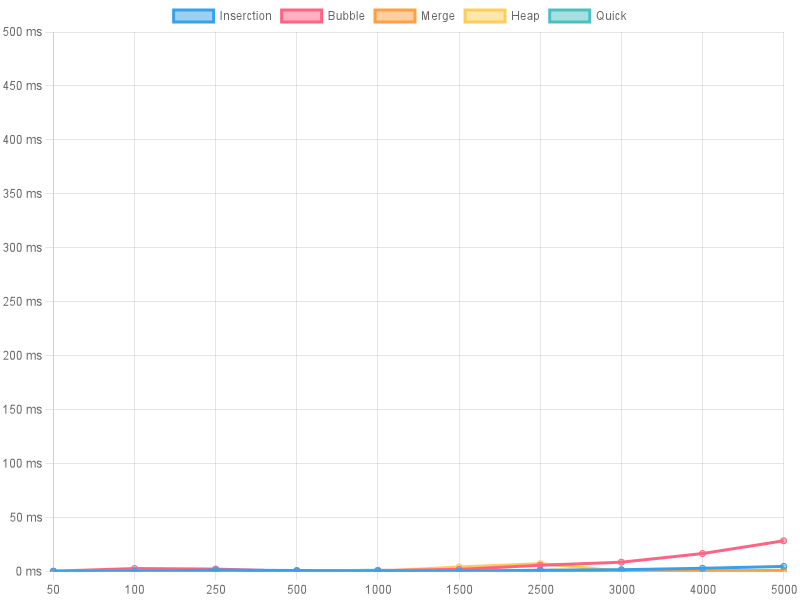
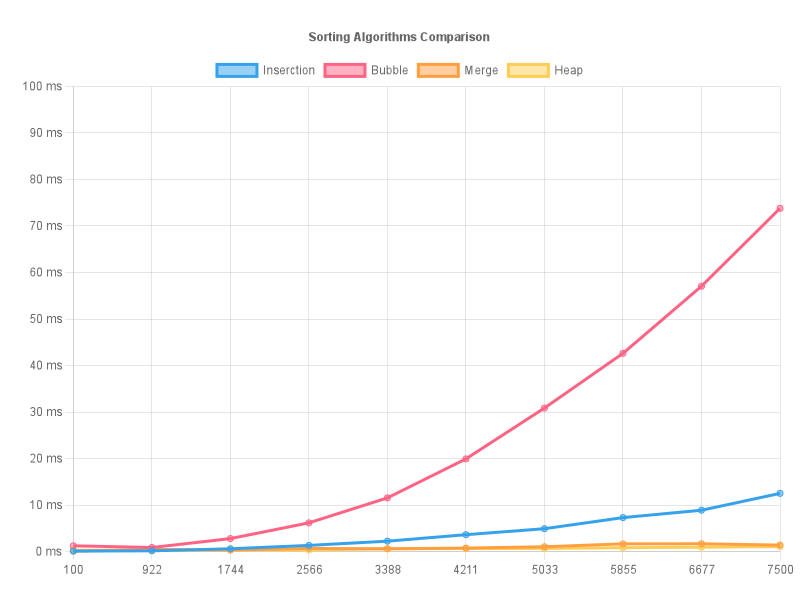
Feat: create config archive to setup simulation environment

diff --git a/core/AlgorithmAnalyzer.js b/core/AlgorithmAnalyzer.js
@@ -1,17 +1,14 @@
 import ArrayGen from "../utils/ArrayGen.js";
 import genGraphic from "../utils/genGraphic.js";
 import ProgressManager from "../utils/ProgressManager.js";
+import genLoadBalance from "../utils/genLoadBalance.js";
+
+import SimulationConfigJSON from "../simulation-config.json" assert { type: "json" };
+import algorithmsSetup from "../algorithms/algorithms-setup.js";
 
 export default class AlgorithmAnalyzer {
-  constructor(scenarioArray, algorithmsFnArray, labels, replications) {
-    this.labels = labels;
-    this.scenarioSizeArray = scenarioArray;
-    this.replications = replications;
-    this.algorithmsFnArray = algorithmsFnArray;
-    this.progressManager = new ProgressManager(
-      scenarioArray.length * algorithmsFnArray.length * replications * 3,
-      2000
-    );
+  constructor() {
+    this.initialize();
   }
 
   /**
@@ -53,17 +50,9 @@ export default class AlgorithmAnalyzer {
     });
 
     // Generate Results and Save Images
-    genGraphic(randomData, xAxisLabels, "random-scenario-comparison.png");
-    genGraphic(
-      increasingData,
-      xAxisLabels,
-      "increasing-scenario-comparison.png"
-    );
-    genGraphic(
-      decreasingData,
-      xAxisLabels,
-      "decreasing-scenario-comparison.png"
-    );
+    genGraphic(randomData, xAxisLabels, "random-scenario-comparison");
+    genGraphic(increasingData, xAxisLabels, "increasing-scenario-comparison");
+    genGraphic(decreasingData, xAxisLabels, "decreasing-scenario-comparison");
   }
 
   /**
@@ -110,5 +99,50 @@ export default class AlgorithmAnalyzer {
 
     const executionTime = endTime - startTime;
     return executionTime;
+  }
+
+  initialize() {
+    const {
+      replications,
+      loadBalances,
+      minBalanceValue,
+      maxBalanceValue,
+      balanceType,
+      algorithms,
+    } = SimulationConfigJSON;
+
+    this.replications = replications;
+
+    switch (balanceType) {
+      case "distributed":
+        this.scenarioSizeArray = genLoadBalance.distributed(
+          loadBalances,
+          minBalanceValue,
+          maxBalanceValue
+        );
+        break;
+      case "exponential":
+        this.scenarioSizeArray = genLoadBalance.exponential(
+          loadBalances,
+          minBalanceValue
+        );
+        break;
+    }
+
+    this.labels = algorithms.map((algorithm) => {
+      return algorithmsSetup[algorithm].label;
+    });
+
+    this.algorithmsFnArray = algorithms.map((algorithm) => {
+      return algorithmsSetup[algorithm].function;
+    });
+
+    this.progressManager = new ProgressManager(
+      this.scenarioSizeArray.length *
+        this.algorithmsFnArray.length *
+        replications *
+        3,
+      2000
+    );
   }
 }

diff --git a/utils/GenGraphic.js b/utils/GenGraphic.js
@@ -18,20 +18,27 @@ export default (data, labels, graphName) => {
     options: {
       responsive: true,
       scales: {
-        x: {
-          scaleLabel: {
-            display: true,
-            labelString: "Tamanho do Array",
-          },
-        },
+        x: {},
         y: {
-          min: 0,
-          max: 500,
+          suggestedMin: 0,
+          suggestedMax: 100,
           ticks: {
             callback: function (value) {
               return value + " ms";
             },
           },
+        },
+      },
+      layout: {
+        padding: 20,
+      },
+      plugins: {
+        legend: {
+          position: "top",
+        },
+        title: {
+          display: true,
+          text: "Sorting Algorithms Comparison",
         },
       },
     },
@@ -42,11 +49,11 @@ export default (data, labels, graphName) => {
     mkdirSync(resultDir);
   }
 
-  const outputPath = `${resultDir}/${graphName}`;
+  const outputPath = `${resultDir}/${graphName}.png`;
   const out = createWriteStream(outputPath);
   const stream = canvas.createPNGStream();
   stream.pipe(out);
   out.on("finish", () => {
-    console.log(`Gráfico salvo em ${outputPath}`);
+    console.log(`Gráfico salvo em: ${outputPath}`);
   });
 };

diff --git a/main.js b/main.js
@@ -1,31 +1,3 @@
 import AlgorithmAnalyzer from "./core/AlgorithmAnalyzer.js";
-
-import inserctionSort from "./algorithms/inserctionSort.js";
-import bubbleSort from "./algorithms/bubbleSort.js";
-import mergeSort from "./algorithms/mergeSort.js";
-import heapSort from "./algorithms/heapSort.js";
-import quickSort from "./algorithms/quickSort.js";
-
-// const arraySizes = [50];
-const arraySizes = [100, 1000, 5000, 30000, 50000, 100000, 150000, 200000];
-// const arraySizes = [
-//   5000, 10000, 20000, 30000, 50000, 100000, 150000, 200000, 350000, 500000,
-// ];
-// const arraySizes = [50, 100, 250, 500, 1000, 1500, 2500, 3000, 4000, 5000];
-const algorithmsArray = [
-  inserctionSort,
-  bubbleSort,
-  mergeSort,
-  heapSort,
-  quickSort,
-];
-const graphLabels = ["Inserction", "Bubble", "Merge", "Heap", "Quick"];
-
-const Simulator = new AlgorithmAnalyzer(
-  arraySizes,
-  algorithmsArray,
-  graphLabels,
-  1
-);
-
+const Simulator = new AlgorithmAnalyzer();
 Simulator.initSimulation();

diff --git a/utils/genLoadBalance.js b/utils/genLoadBalance.js
@@ -1,0 +1,26 @@
+export default {
+  distributed: (size, min, max) => {
+    const array = [];
+    const step = (max - min) / (size - 1);
+
+    for (let i = 0; i < size; i++) {
+      const value = min + step * i;
+      array.push(parseInt(value));
+    }
+
+    return array;
+  },
+  exponential: (size, min) => {
+    const array = [];
+    const firstMultiple = Math.pow(2, Math.ceil(Math.log2(min)));
+    const base = 2;
+
+    array.push(firstMultiple);
+    for (let i = 1; i < size; i++) {
+      const value = array[i - 1] * base;
+      array.push(parseInt(value));
+    }
+
+    return array;
+  },
+};

diff --git a/algorithms/algorithms-setup.js b/algorithms/algorithms-setup.js
@@ -1,0 +1,28 @@
+import inserctionSort from "./inserctionSort.js";
+import bubbleSort from "./bubbleSort.js";
+import mergeSort from "./mergeSort.js";
+import heapSort from "./heapSort.js";
+import quickSort from "./quickSort.js";
+
+export default {
+  INSERCTIONSORT: {
+    label: "Inserction",
+    function: inserctionSort,
+  },
+  BUBBLESORT: {
+    label: "Bubble",
+    function: bubbleSort,
+  },
+  MERGESORT: {
+    label: "Merge",
+    function: mergeSort,
+  },
+  HEAPSORT: {
+    label: "Heap",
+    function: heapSort,
+  },
+  QUICKSORT: {
+    label: "Quick",
+    function: quickSort,
+  },
+};
